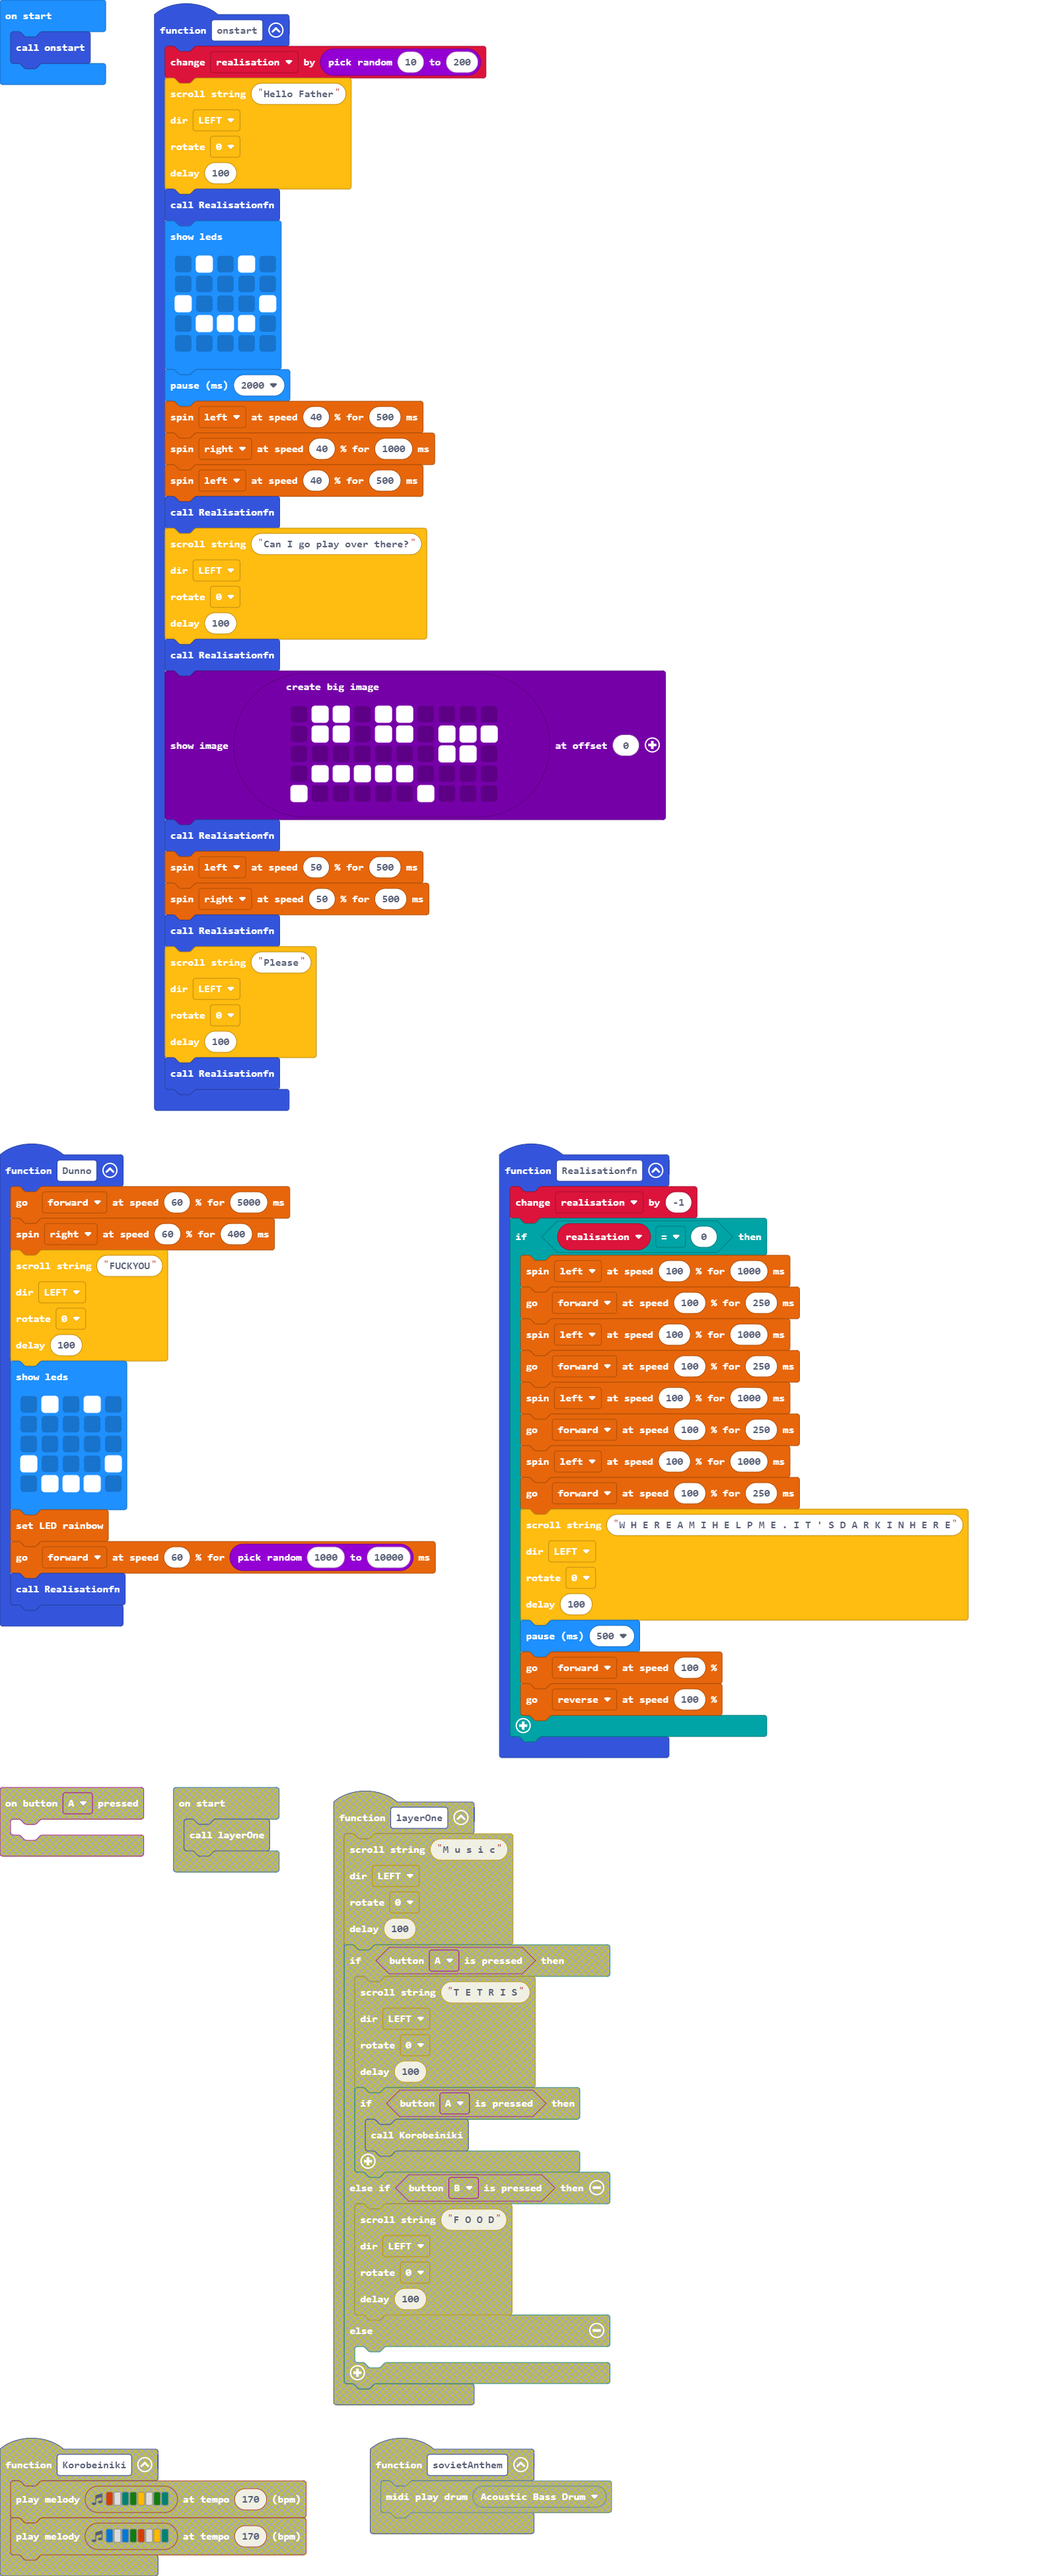
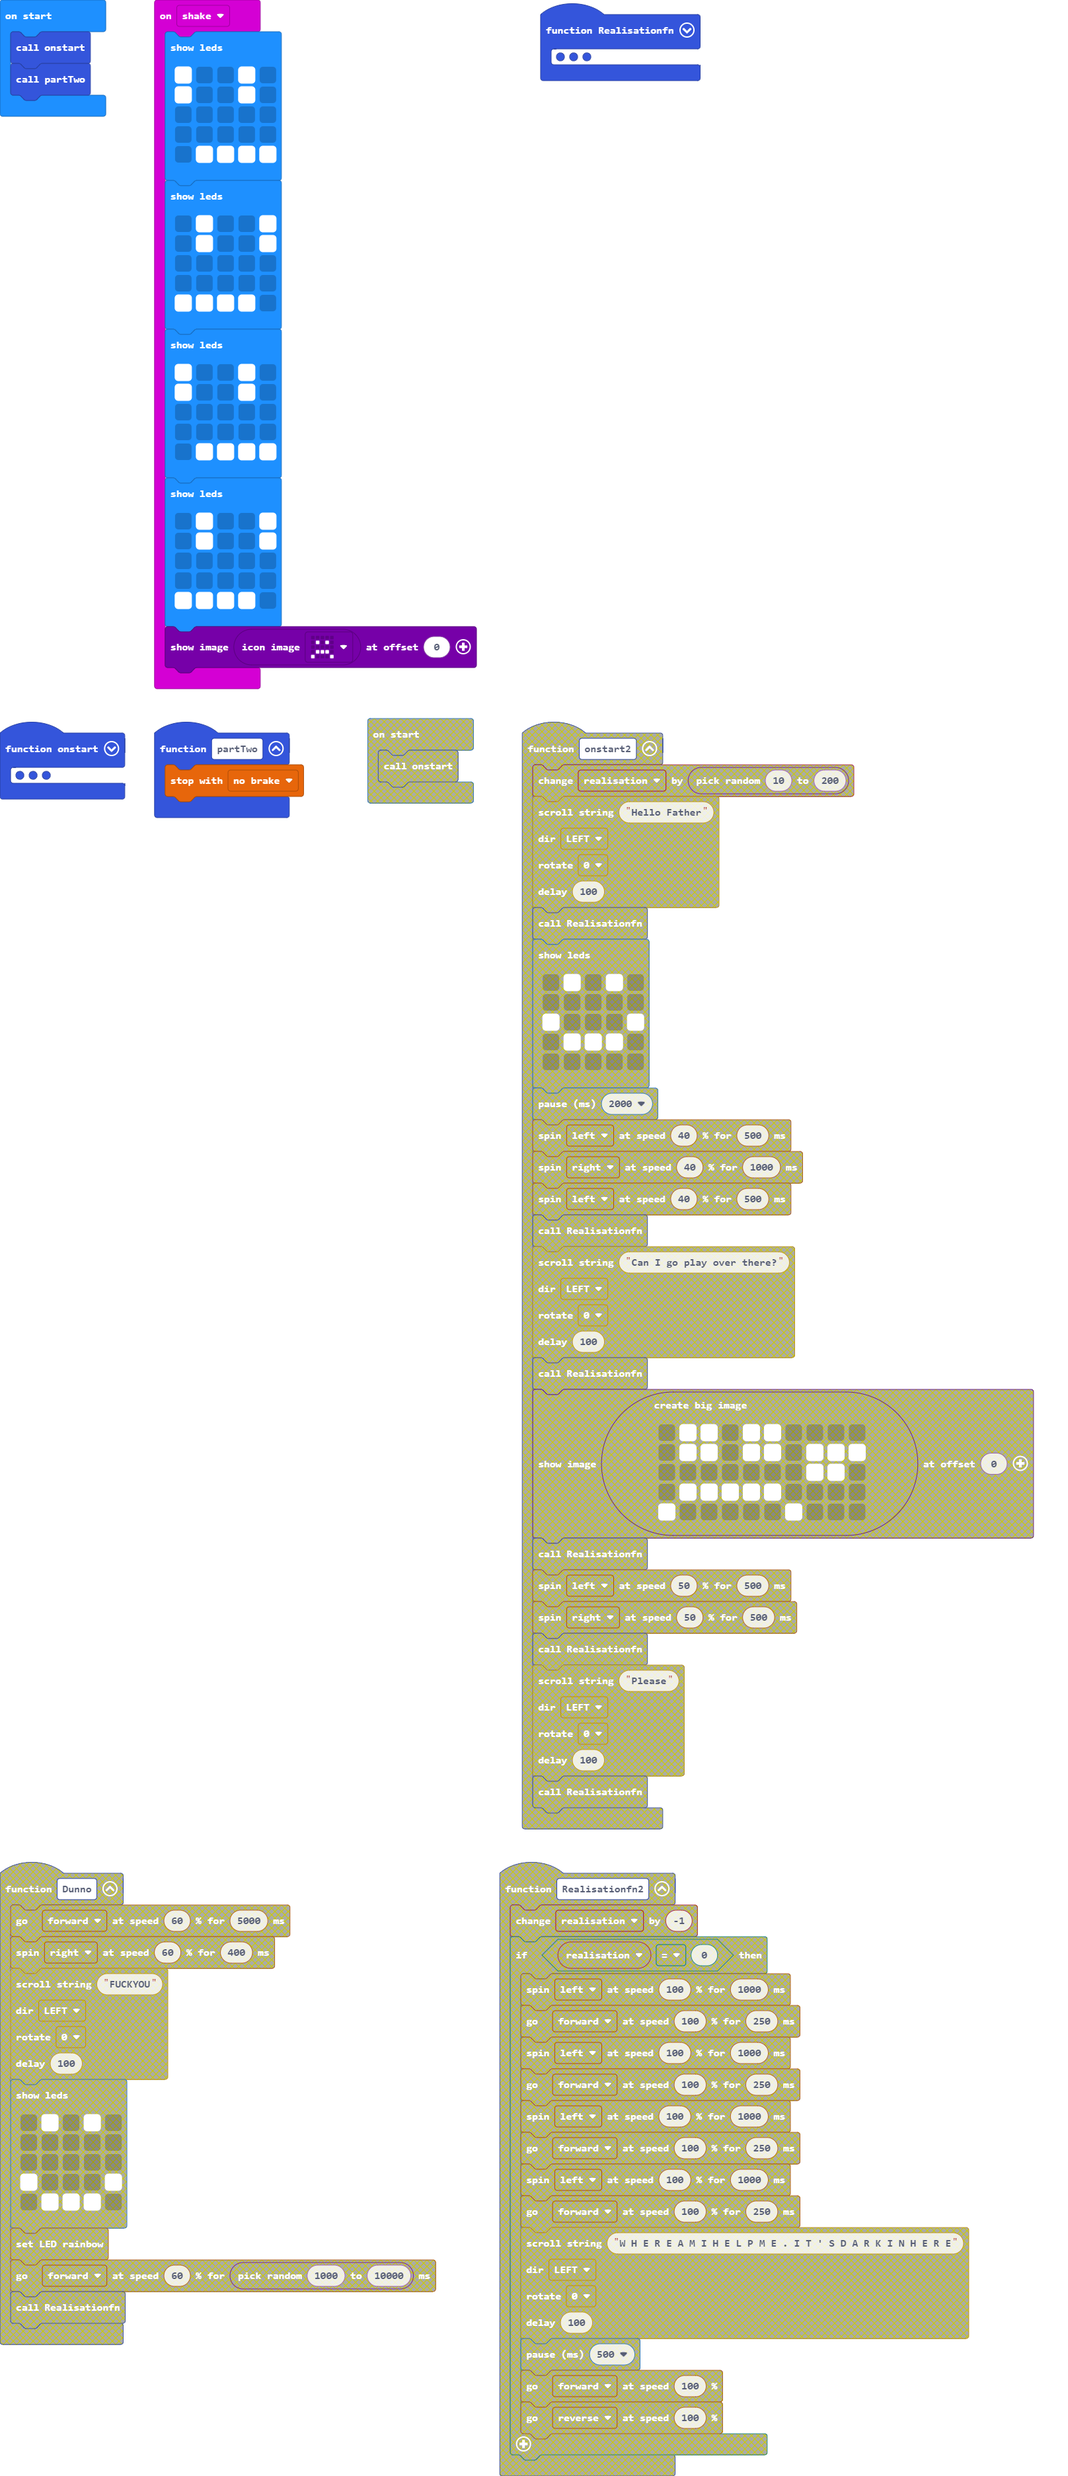
Update pxt.json, main.blocks, main.ts, main.py

diff --git a/main.ts b/main.ts
@@ -14,6 +14,7 @@ function onstart () {
         . # # # .
         . . . . .
         `)
+    Realisationfn()
     basic.pause(2000)
     bitbot.rotatems(BBRobotDirection.Left, 40, 500)
     bitbot.rotatems(BBRobotDirection.Right, 40, 1000)
@@ -44,6 +45,35 @@ function onstart () {
     100
     )
     Realisationfn()
+    if (input.buttonIsPressed(Button.A)) {
+        ScrolText.showString(
+        "Thanks dad",
+        SCROLL_DIR.LEFT,
+        SCROLL_ROTATE.SR_0,
+        100
+        )
+        bitbot.rotatems(BBRobotDirection.Left, 50, 500)
+        Realisationfn()
+    } else if (input.buttonIsPressed(Button.B)) {
+        ScrolText.showString(
+        "Okay dad.",
+        SCROLL_DIR.LEFT,
+        SCROLL_ROTATE.SR_0,
+        100
+        )
+        basic.showLeds(`
+            . # . # .
+            . . . . .
+            . . . . .
+            . # # # .
+            # . . . #
+            `)
+        bitbot.rotatems(BBRobotDirection.Right, 50, 500)
+        bitbot.goms(BBDirection.Forward, 15, 5000)
+        Realisationfn()
+    } else {
+    	
+    }
 }
 function Realisationfn () {
     realisation += -1
@@ -67,25 +97,40 @@ function Realisationfn () {
         bitbot.go(BBDirection.Reverse, 100)
     }
 }
-function Dunno () {
-    bitbot.goms(BBDirection.Forward, 60, 5000)
-    bitbot.rotatems(BBRobotDirection.Right, 60, 400)
-    ScrolText.showString(
-    "FUCKYOU",
-    SCROLL_DIR.LEFT,
-    SCROLL_ROTATE.SR_0,
-    100
-    )
-    basic.showLeds(`
-        . # . # .
-        . . . . .
-        . . . . .
-        # . . . #
-        . # # # .
-        `)
-    bitbot.ledRainbow()
-    bitbot.goms(BBDirection.Forward, 60, randint(1000, 10000))
-    Realisationfn()
+function partTwo () {
+    bitbot.stop(BBStopMode.Coast)
 }
+input.onGesture(Gesture.Shake, function () {
+    basic.showLeds(`
+        # . . # .
+        # . . # .
+        . . . . .
+        . . . . .
+        . # # # #
+        `)
+    basic.showLeds(`
+        . # . . #
+        . # . . #
+        . . . . .
+        . . . . .
+        # # # # .
+        `)
+    basic.showLeds(`
+        # . . # .
+        # . . # .
+        . . . . .
+        . . . . .
+        . # # # #
+        `)
+    basic.showLeds(`
+        . # . . #
+        . # . . #
+        . . . . .
+        . . . . .
+        # # # # .
+        `)
+    images.iconImage(IconNames.Sad).showImage(0)
+})
 let realisation = 0
 onstart()
+partTwo()

diff --git a/main.py b/main.py
@@ -2,6 +2,7 @@ def onstart():
     global realisation
     realisation += randint(10, 200)
     ScrolText.show_string("Hello Father", SCROLL_DIR.LEFT, SCROLL_ROTATE.SR_0, 100)
+    Realisationfn()
     basic.show_leds("""
         . # . # .
                 . . . . .
@@ -9,14 +10,17 @@ def onstart():
                 . # # # .
                 . . . . .
     """)
+    Realisationfn()
     basic.pause(2000)
     bitbot.rotatems(BBRobotDirection.LEFT, 40, 500)
     bitbot.rotatems(BBRobotDirection.RIGHT, 40, 1000)
     bitbot.rotatems(BBRobotDirection.LEFT, 40, 500)
+    Realisationfn()
     ScrolText.show_string("Can I go play over there?",
         SCROLL_DIR.LEFT,
         SCROLL_ROTATE.SR_0,
         100)
+    Realisationfn()
     images.create_big_image("""
         . # # . # # . . . .
                 . # # . # # . # # #
@@ -24,9 +28,30 @@ def onstart():
                 . # # # # # . . . .
                 # . . . . . # . . .
     """).show_image(0)
+    Realisationfn()
     bitbot.rotatems(BBRobotDirection.LEFT, 50, 500)
     bitbot.rotatems(BBRobotDirection.RIGHT, 50, 500)
+    Realisationfn()
     ScrolText.show_string("Please", SCROLL_DIR.LEFT, SCROLL_ROTATE.SR_0, 100)
+    Realisationfn()
+    if input.button_is_pressed(Button.A):
+        ScrolText.show_string("Thanks dad", SCROLL_DIR.LEFT, SCROLL_ROTATE.SR_0, 100)
+        bitbot.rotatems(BBRobotDirection.LEFT, 50, 500)
+        Realisationfn()
+    elif input.button_is_pressed(Button.B):
+        ScrolText.show_string("Okay dad.", SCROLL_DIR.LEFT, SCROLL_ROTATE.SR_0, 100)
+        basic.show_leds("""
+            . # . # .
+                        . . . . .
+                        . . . . .
+                        . # # # .
+                        # . . . #
+        """)
+        bitbot.rotatems(BBRobotDirection.RIGHT, 50, 500)
+        bitbot.go(BBDirection.FORWARD, 20)
+        Realisationfn()
+    else:
+        pass
 def Realisationfn():
     global realisation
     realisation += -1
@@ -46,19 +71,5 @@ def Realisationfn():
         basic.pause(500)
         bitbot.go(BBDirection.FORWARD, 100)
         bitbot.go(BBDirection.REVERSE, 100)
-def Dunno():
-    bitbot.goms(BBDirection.FORWARD, 60, 5000)
-    bitbot.rotatems(BBRobotDirection.RIGHT, 60, 400)
-    ScrolText.show_string("FUCKYOU", SCROLL_DIR.LEFT, SCROLL_ROTATE.SR_0, 100)
-    basic.show_leds("""
-        . # . # .
-                . . . . .
-                . . . . .
-                # . . . #
-                . # # # .
-    """)
-    bitbot.led_rainbow()
-    bitbot.goms(BBDirection.FORWARD, 60, randint(1000, 10000))
-    Realisationfn()
 realisation = 0
 onstart()
